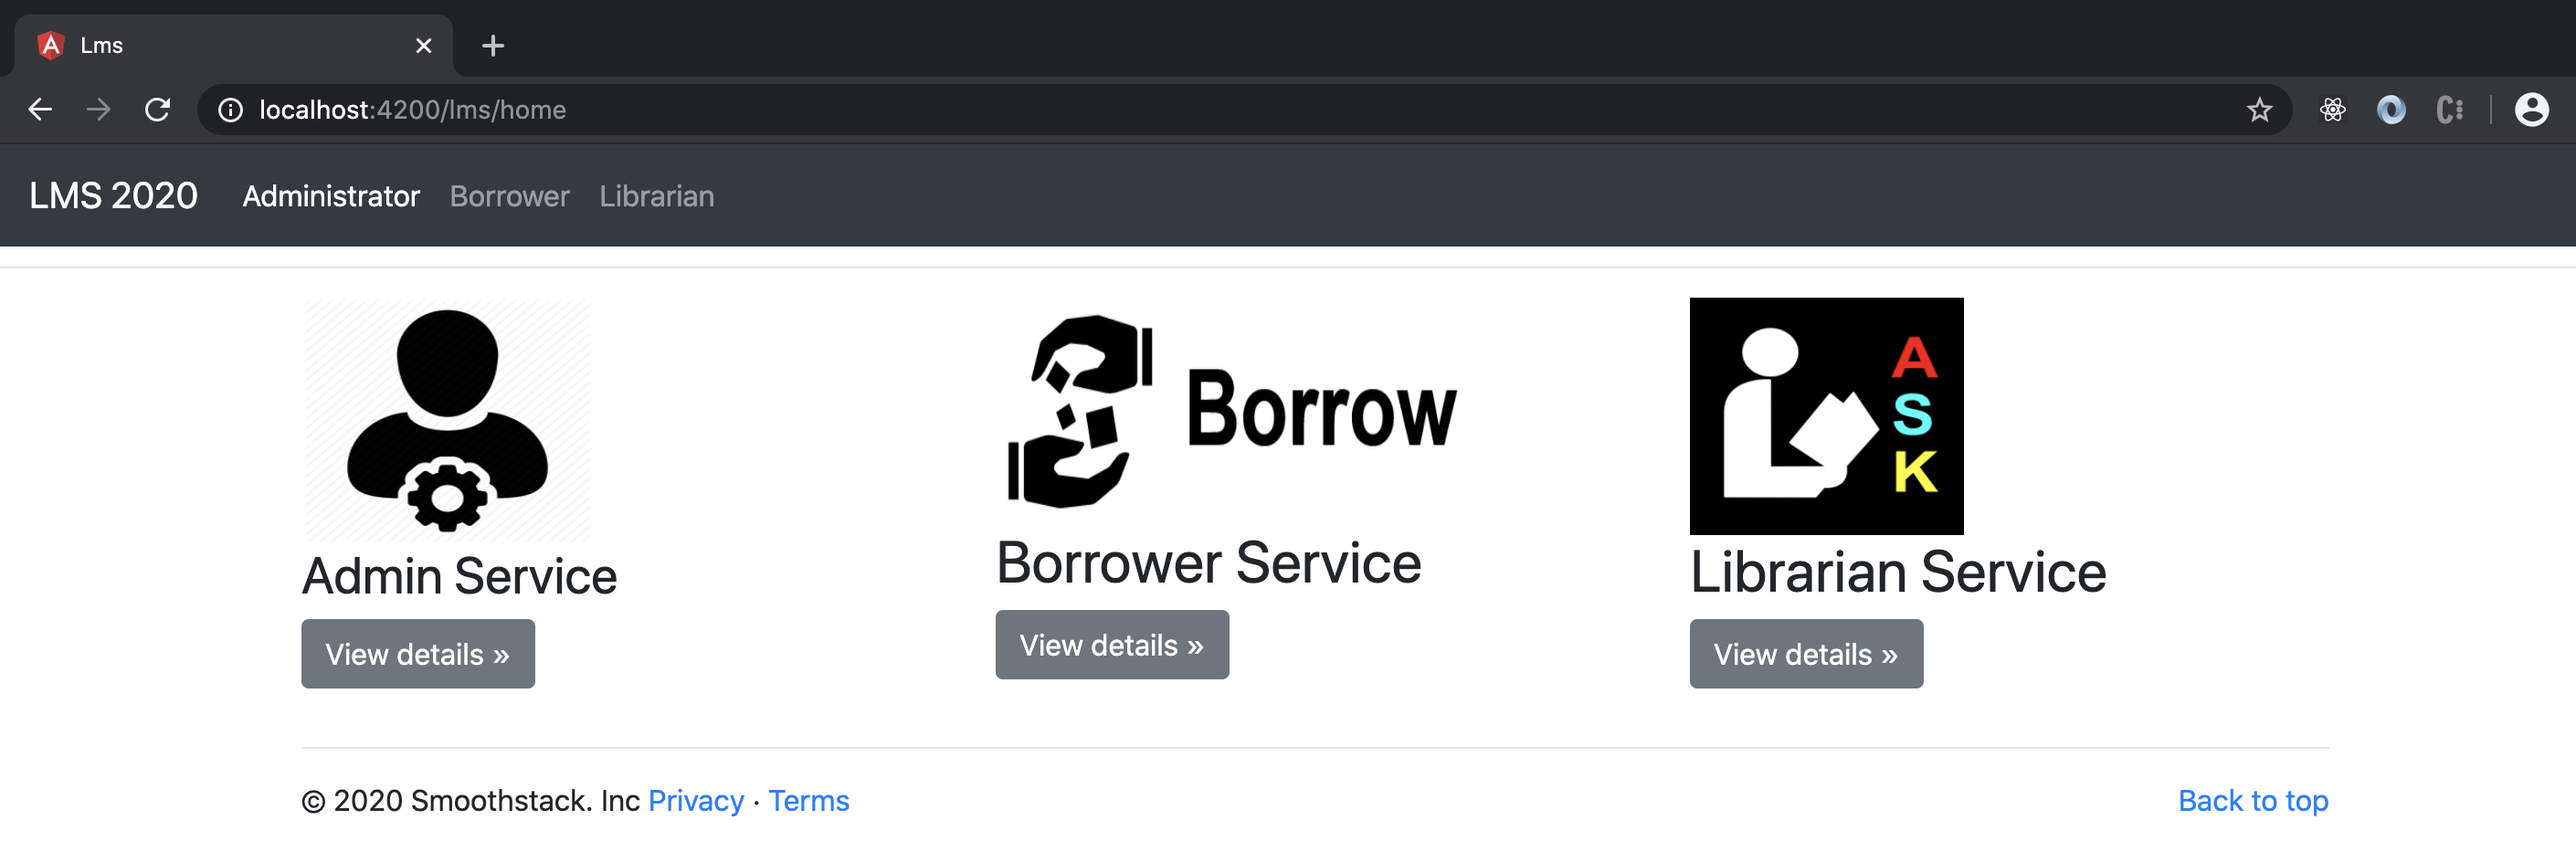
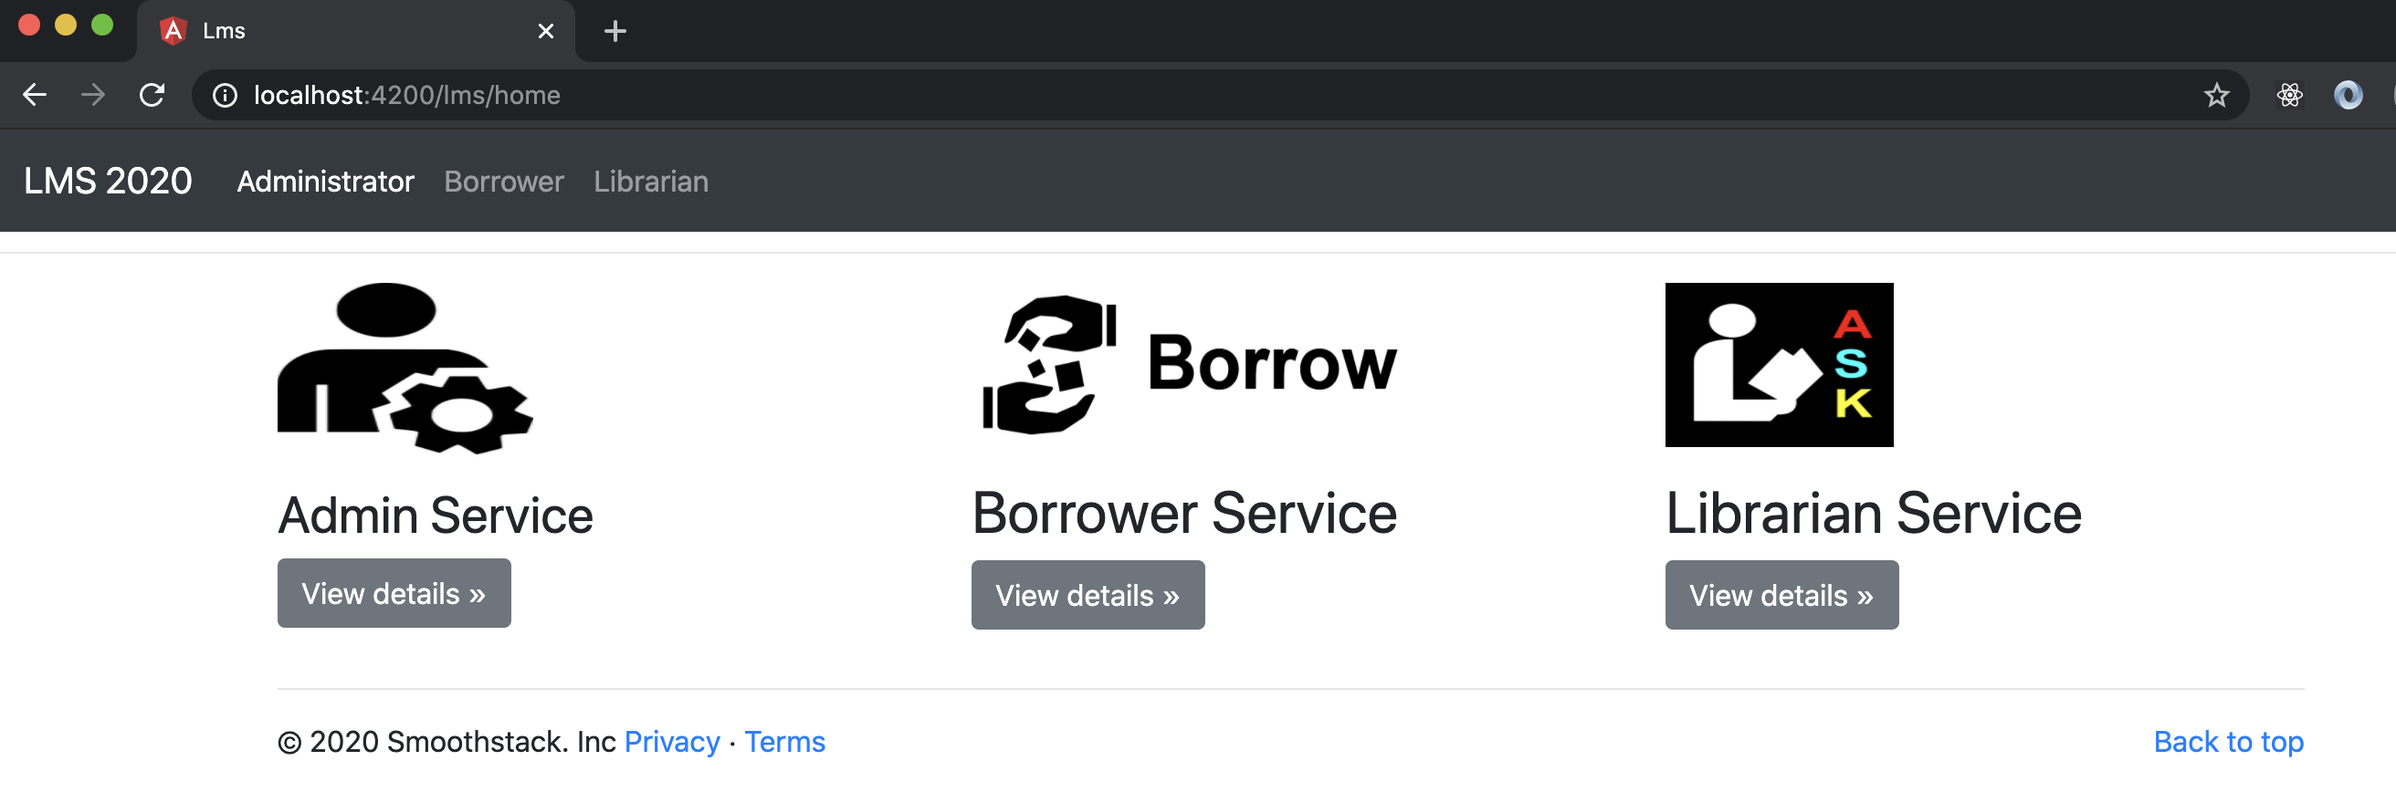
add outputs

diff --git a/web/lms-angular/src/app/home/home.component.html b/web/lms-angular/src/app/home/home.component.html
@@ -19,9 +19,10 @@
       <img
         src="assets/img/admin-logo.png"
         class="center"
-        width="160"
-        height="135"
+        width="140"
+        height="94"
       />
+      <p></p>
       <h3>Admin Service</h3>
       <p>
         <a class="btn btn-secondary" href="/lms/admin" role="button"
@@ -34,9 +35,10 @@
       <img
         src="assets/img/borrower-logo.jpg"
         class="center"
-        width="260"
-        height="125"
+        width="240"
+        height="90"
       />
+      <p></p>
       <h2>Borrower Service</h2>
       <p>
         <a class="btn btn-secondary" href="/lms/borrower" role="button"
@@ -49,9 +51,10 @@
       <img
         src="assets/img/librarian-logo.jpg"
         class="center"
-        width="150"
-        height="130"
+        width="125"
+        height="90"
       />
+      <p></p>
       <h2>
         Librarian Service
       </h2>
